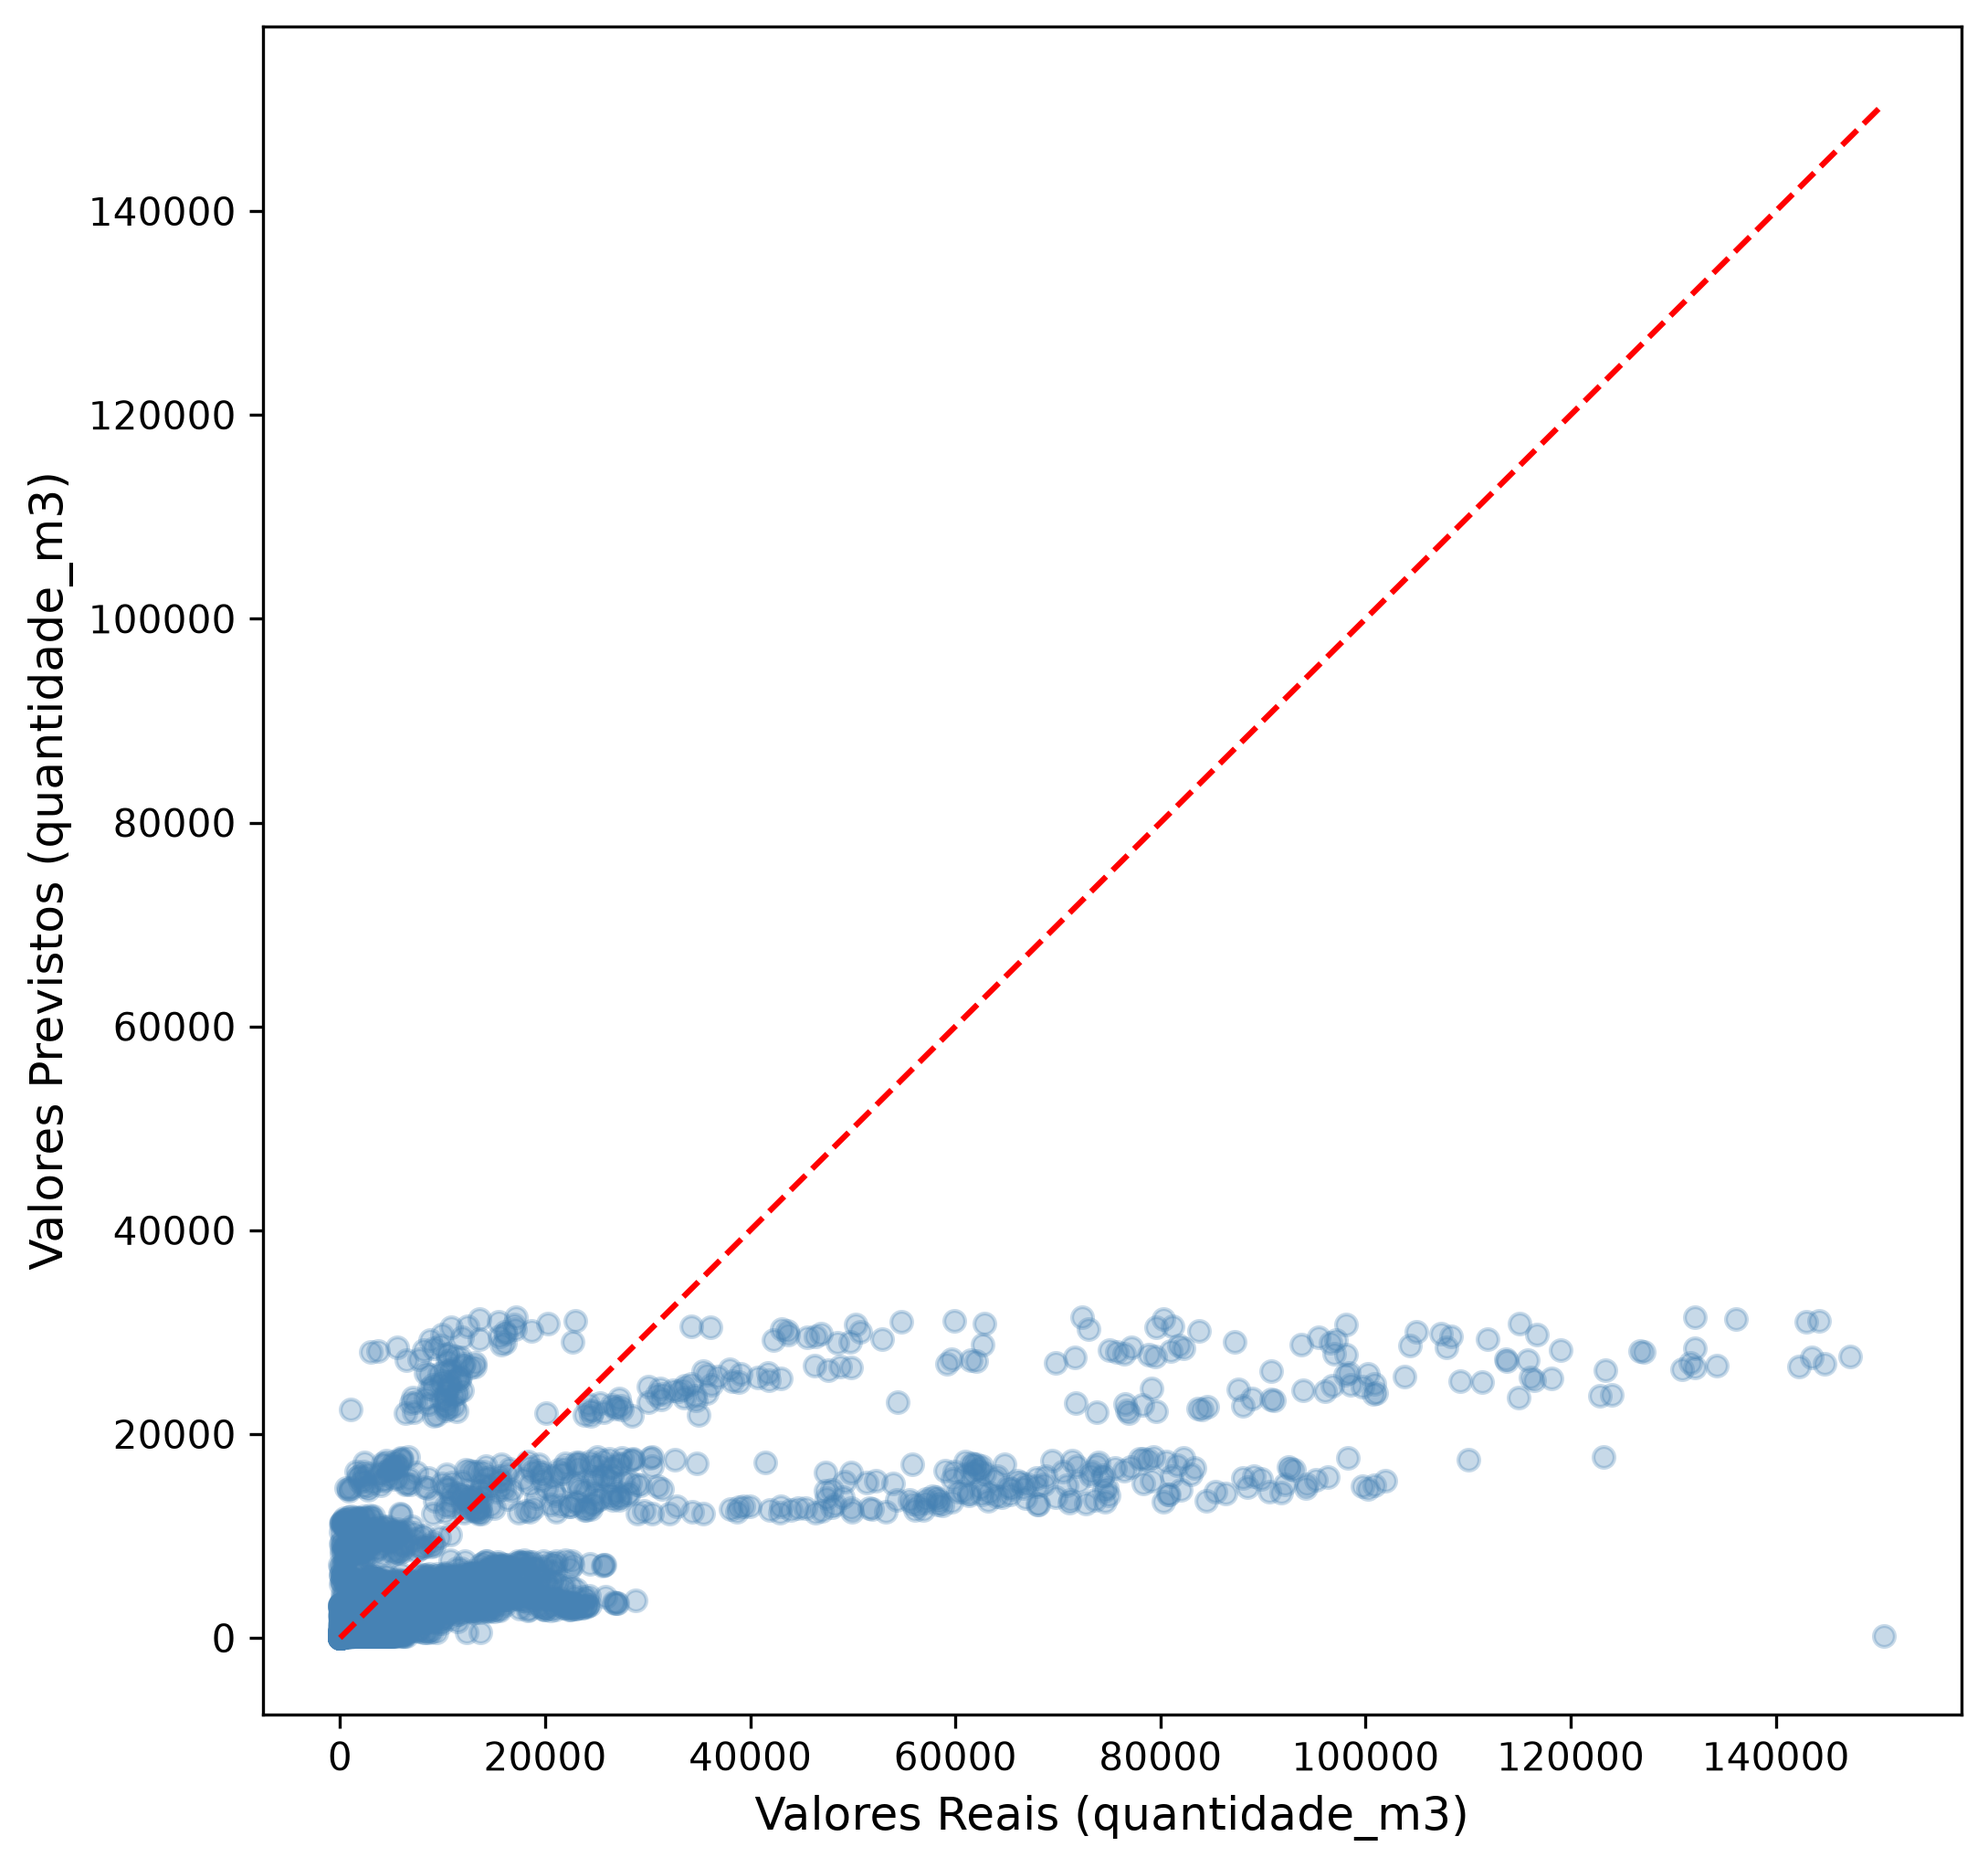
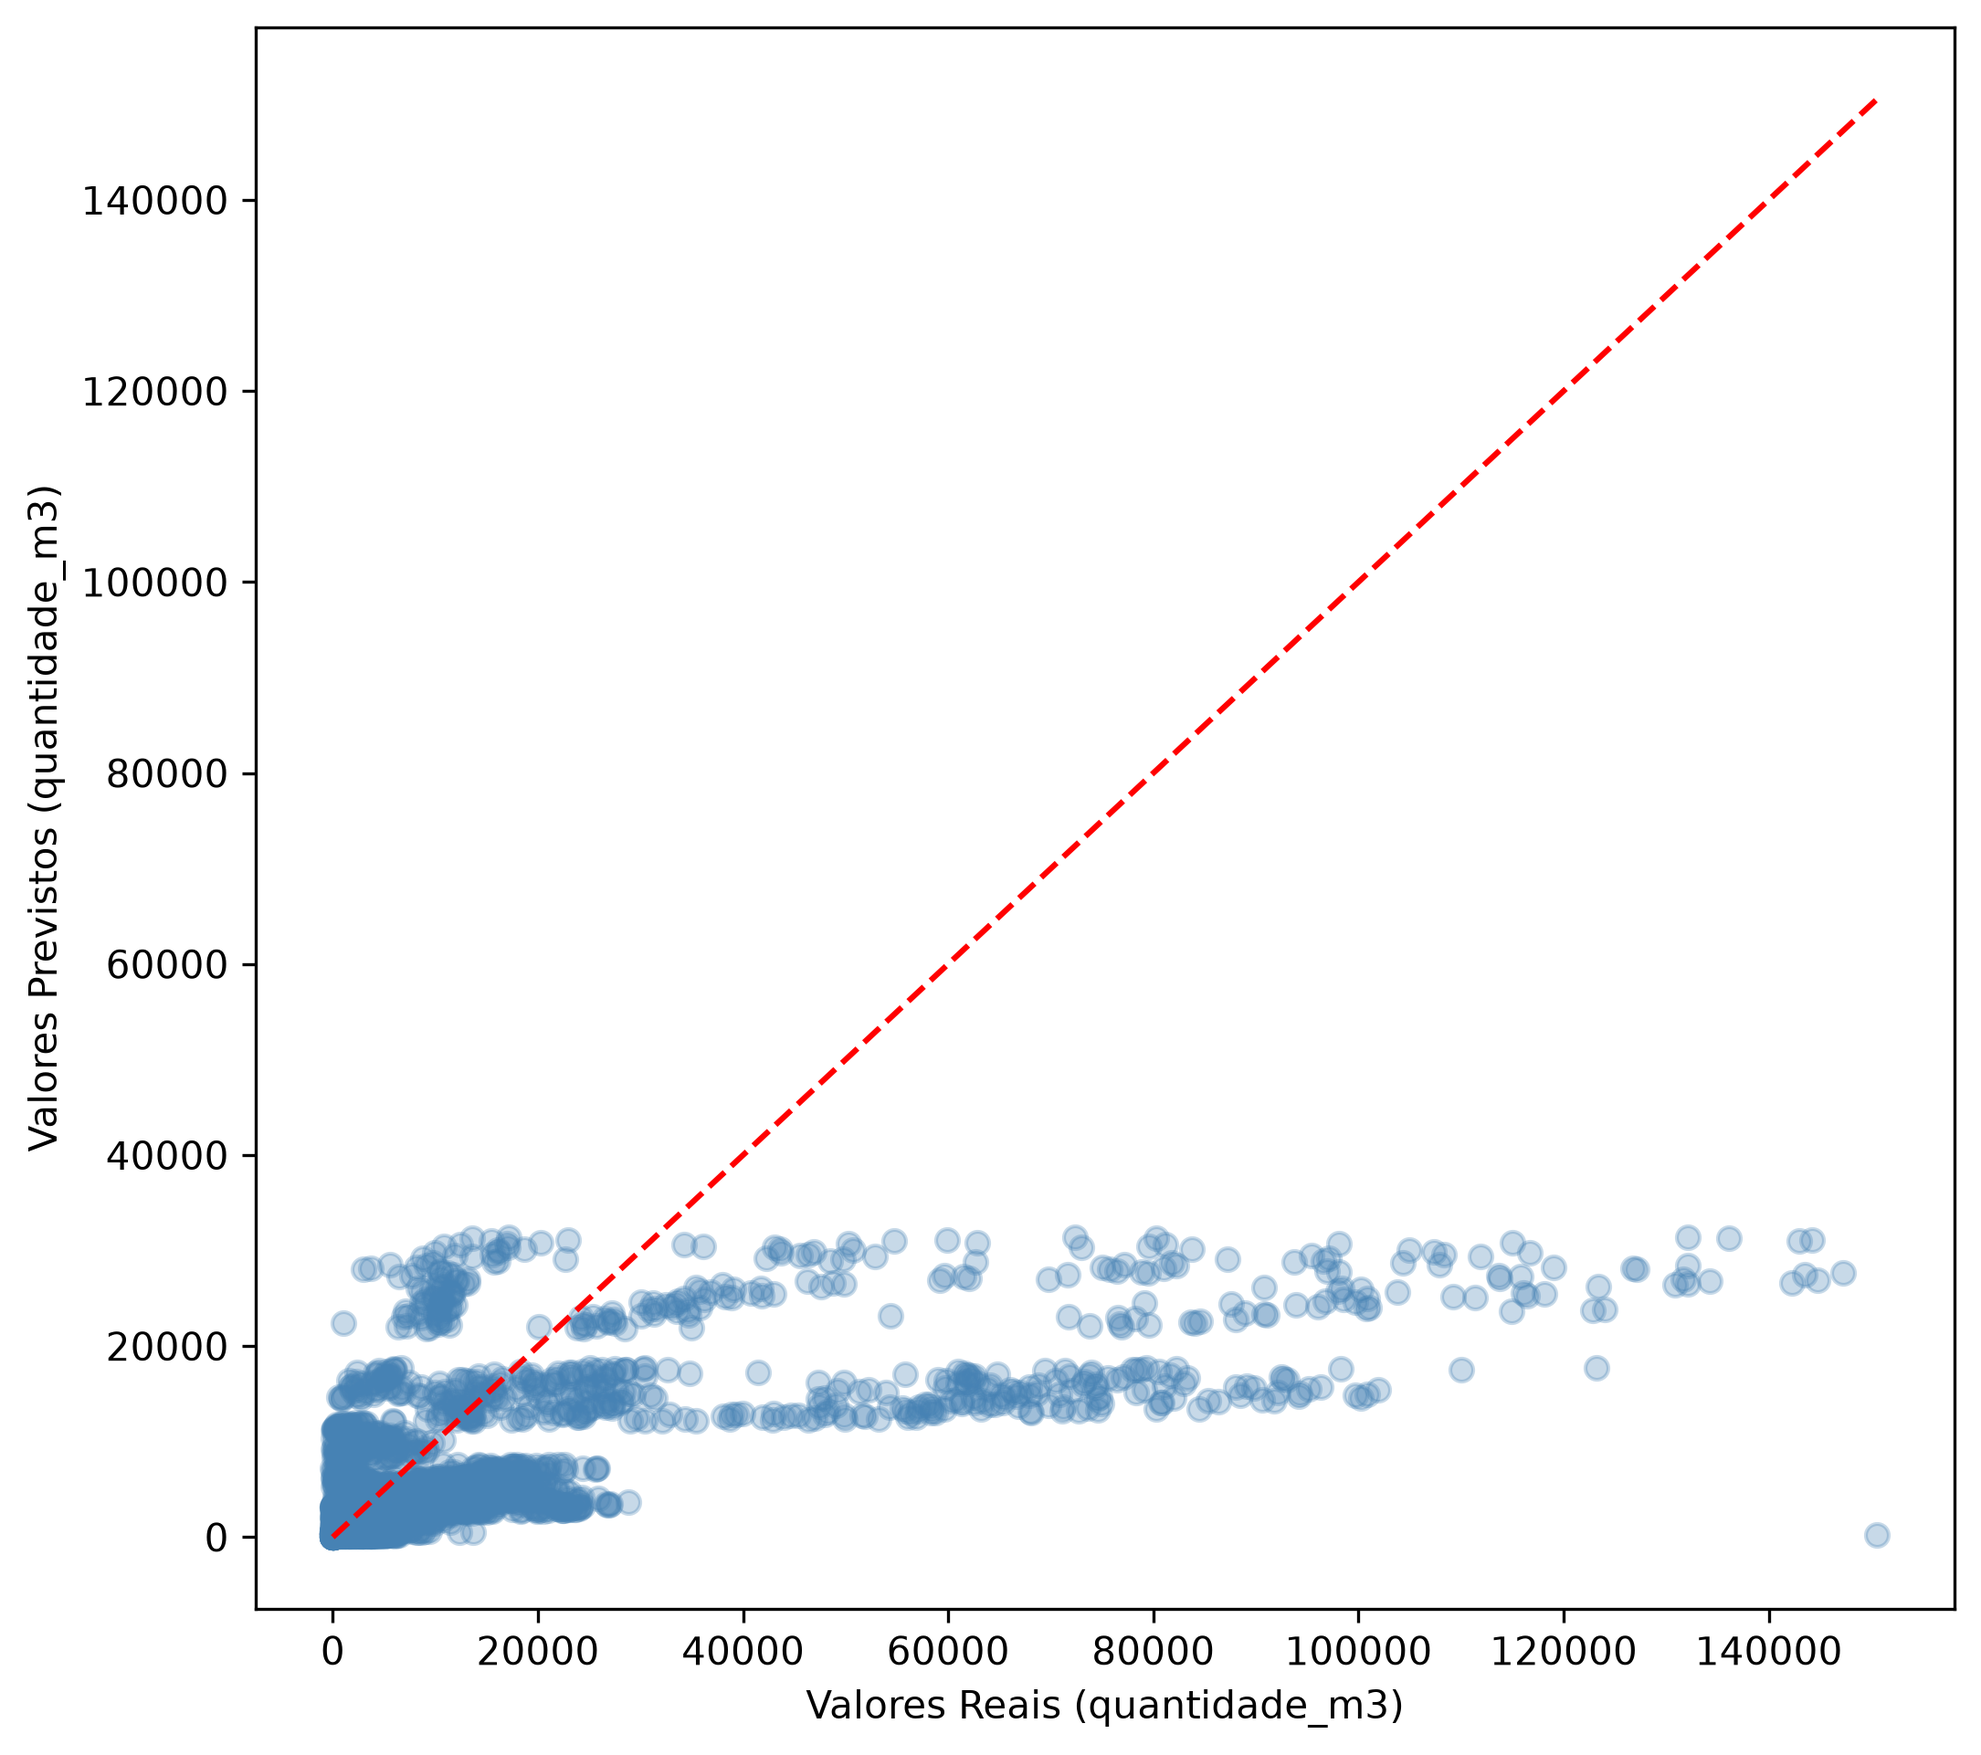
Gera o gráfico reais vs previstos no notebook e o exibe no README

diff --git a/README.md b/README.md
@@ -15,7 +15,11 @@
  
 **O resultado:** O modelo final explica cerca de metade da variação (R² de 0,5031, na escala Box-Cox, próxima do logaritmo). O óleo de soja é a matéria-prima com maior efeito positivo, e o Sul é a única região acima do Centro-Oeste.
  
-**A limitação que mais importa para o negócio:** O modelo subestima bastante os registros de volume grande: no gráfico de valores reais contra previstos, as previsões não passam de cerca de 30 mil m³, enquanto os valores reais chegam a cerca de 150 mil m³. Não investiguei a causa. Por isso, o resultado serve como referência de padrão entre matérias-primas e regiões, e não como previsão confiável de volumes grandes.
+**A limitação que mais importa para o negócio:** O modelo subestima bastante os registros de volume grande: no gráfico abaixo (valores reais contra previstos), as previsões não passam de cerca de 30 mil m³, enquanto os valores reais chegam a cerca de 150 mil m³. Não investiguei a causa. Por isso, o resultado serve como referência de padrão entre matérias-primas e regiões, e não como previsão confiável de volumes grandes.
+
+<p align="center">
+  <img src="outputs/reais_vs_previstos_step_bc_biodiesel.png" alt="Valores reais contra valores previstos" width="500">
+</p>
  
 Outras ressalvas: o R² do modelo final está na escala transformada da variável resposta, e todas as métricas foram calculadas na mesma amostra usada para estimar o modelo (veja [Limitações](#-limitações)).
  
@@ -65,7 +69,7 @@ O modelo final manteve 13 variáveis, todas significativas a 1% (p ≤ 0,008). C
  
 ## ⚠ Limitações
  
-- **Subestimação dos registros grandes.** As previsões ficam em até cerca de 30 mil m³, e os valores reais chegam a cerca de 150 mil m³. Não investiguei a causa. Uma hipótese é a retransformação do Box-Cox (desigualdade de Jensen), mas não a testei, e o tamanho da diferença sugere que pode haver um problema de ajuste na cauda.
+- **Subestimação dos registros grandes.** As previsões ficam em até cerca de 30 mil m³ (máximo de 31.437 m³), e os valores reais chegam a cerca de 150 mil m³ (máximo de 150.567 m³). O gráfico é gerado no notebook, na célula logo após o gráfico de resíduos. Não investiguei a causa. Uma hipótese é a retransformação do Box-Cox (desigualdade de Jensen), mas não a testei, e o tamanho da diferença sugere que pode haver um problema de ajuste na cauda.
 - **Não fiz validação fora da amostra.** R², testes de normalidade e homocedasticidade foram calculados na mesma base em que estimei o modelo.
 - **Normalidade ainda rejeitada depois do Box-Cox.** O W do Shapiro-Francia subiu de 0,76295 para 0,98078, mas o p-valor continua baixo (5,1e-24).
 - **Breusch-Pagan só no modelo final** (p = 0,0841, não rejeita homocedasticidade a 5%). Calculei com a função do material do curso e ainda não comparei com a implementação do `statsmodels`. Pelo que verifiquei, o p-valor dessa função não segue o cálculo padrão da cauda do qui-quadrado, e com o cálculo padrão ele ficaria mais perto de 0,07. A conclusão a 5% se mantém, mas o valor exato precisa ser conferido.
